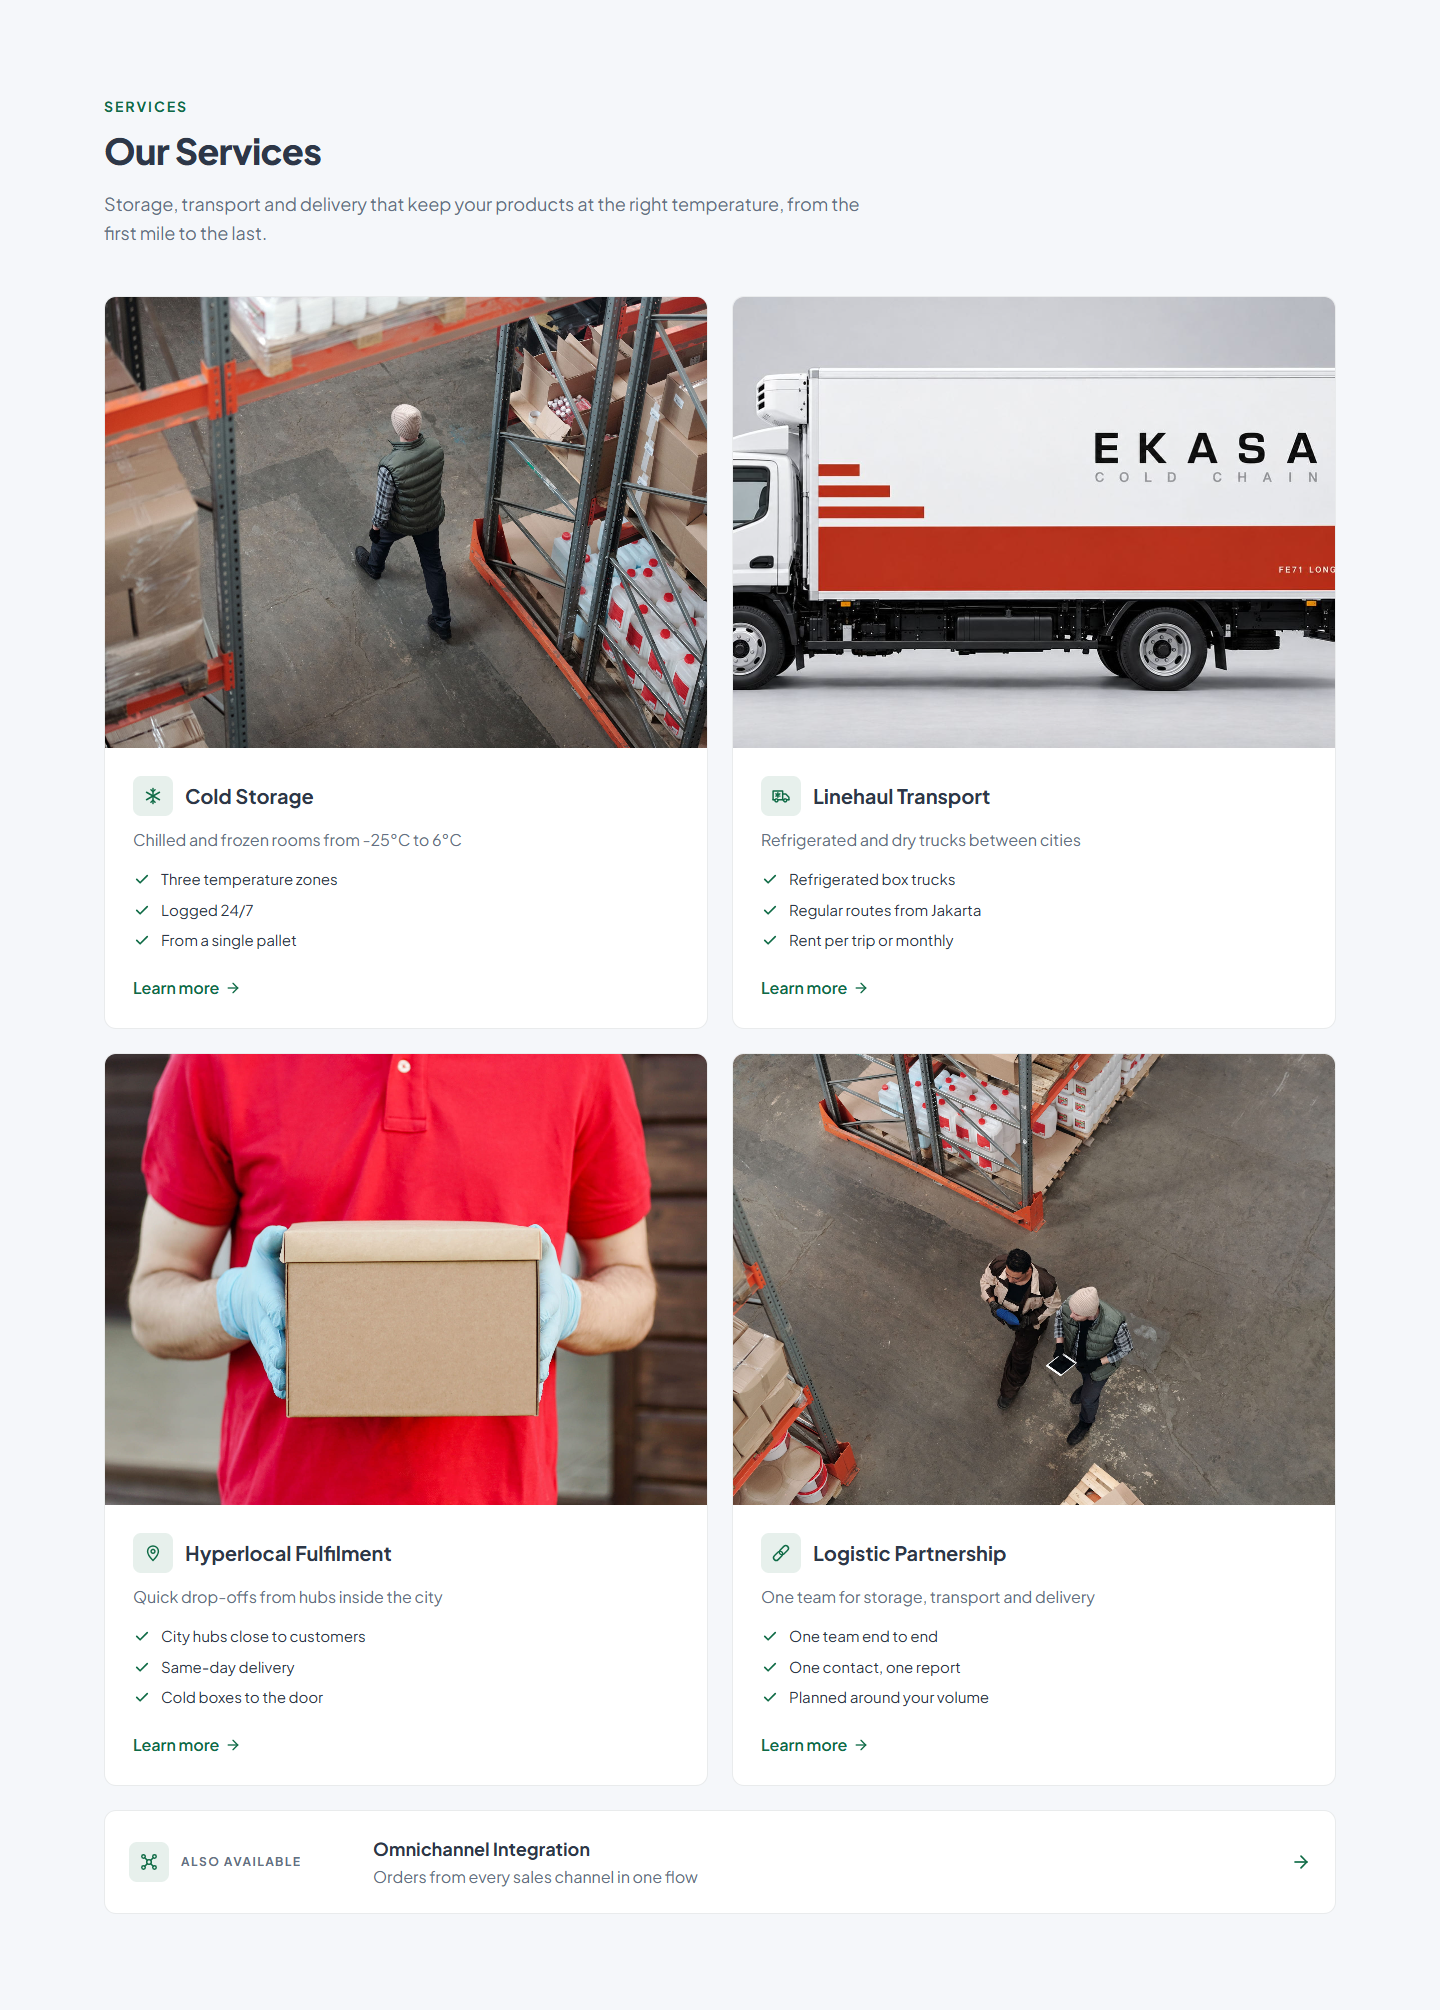
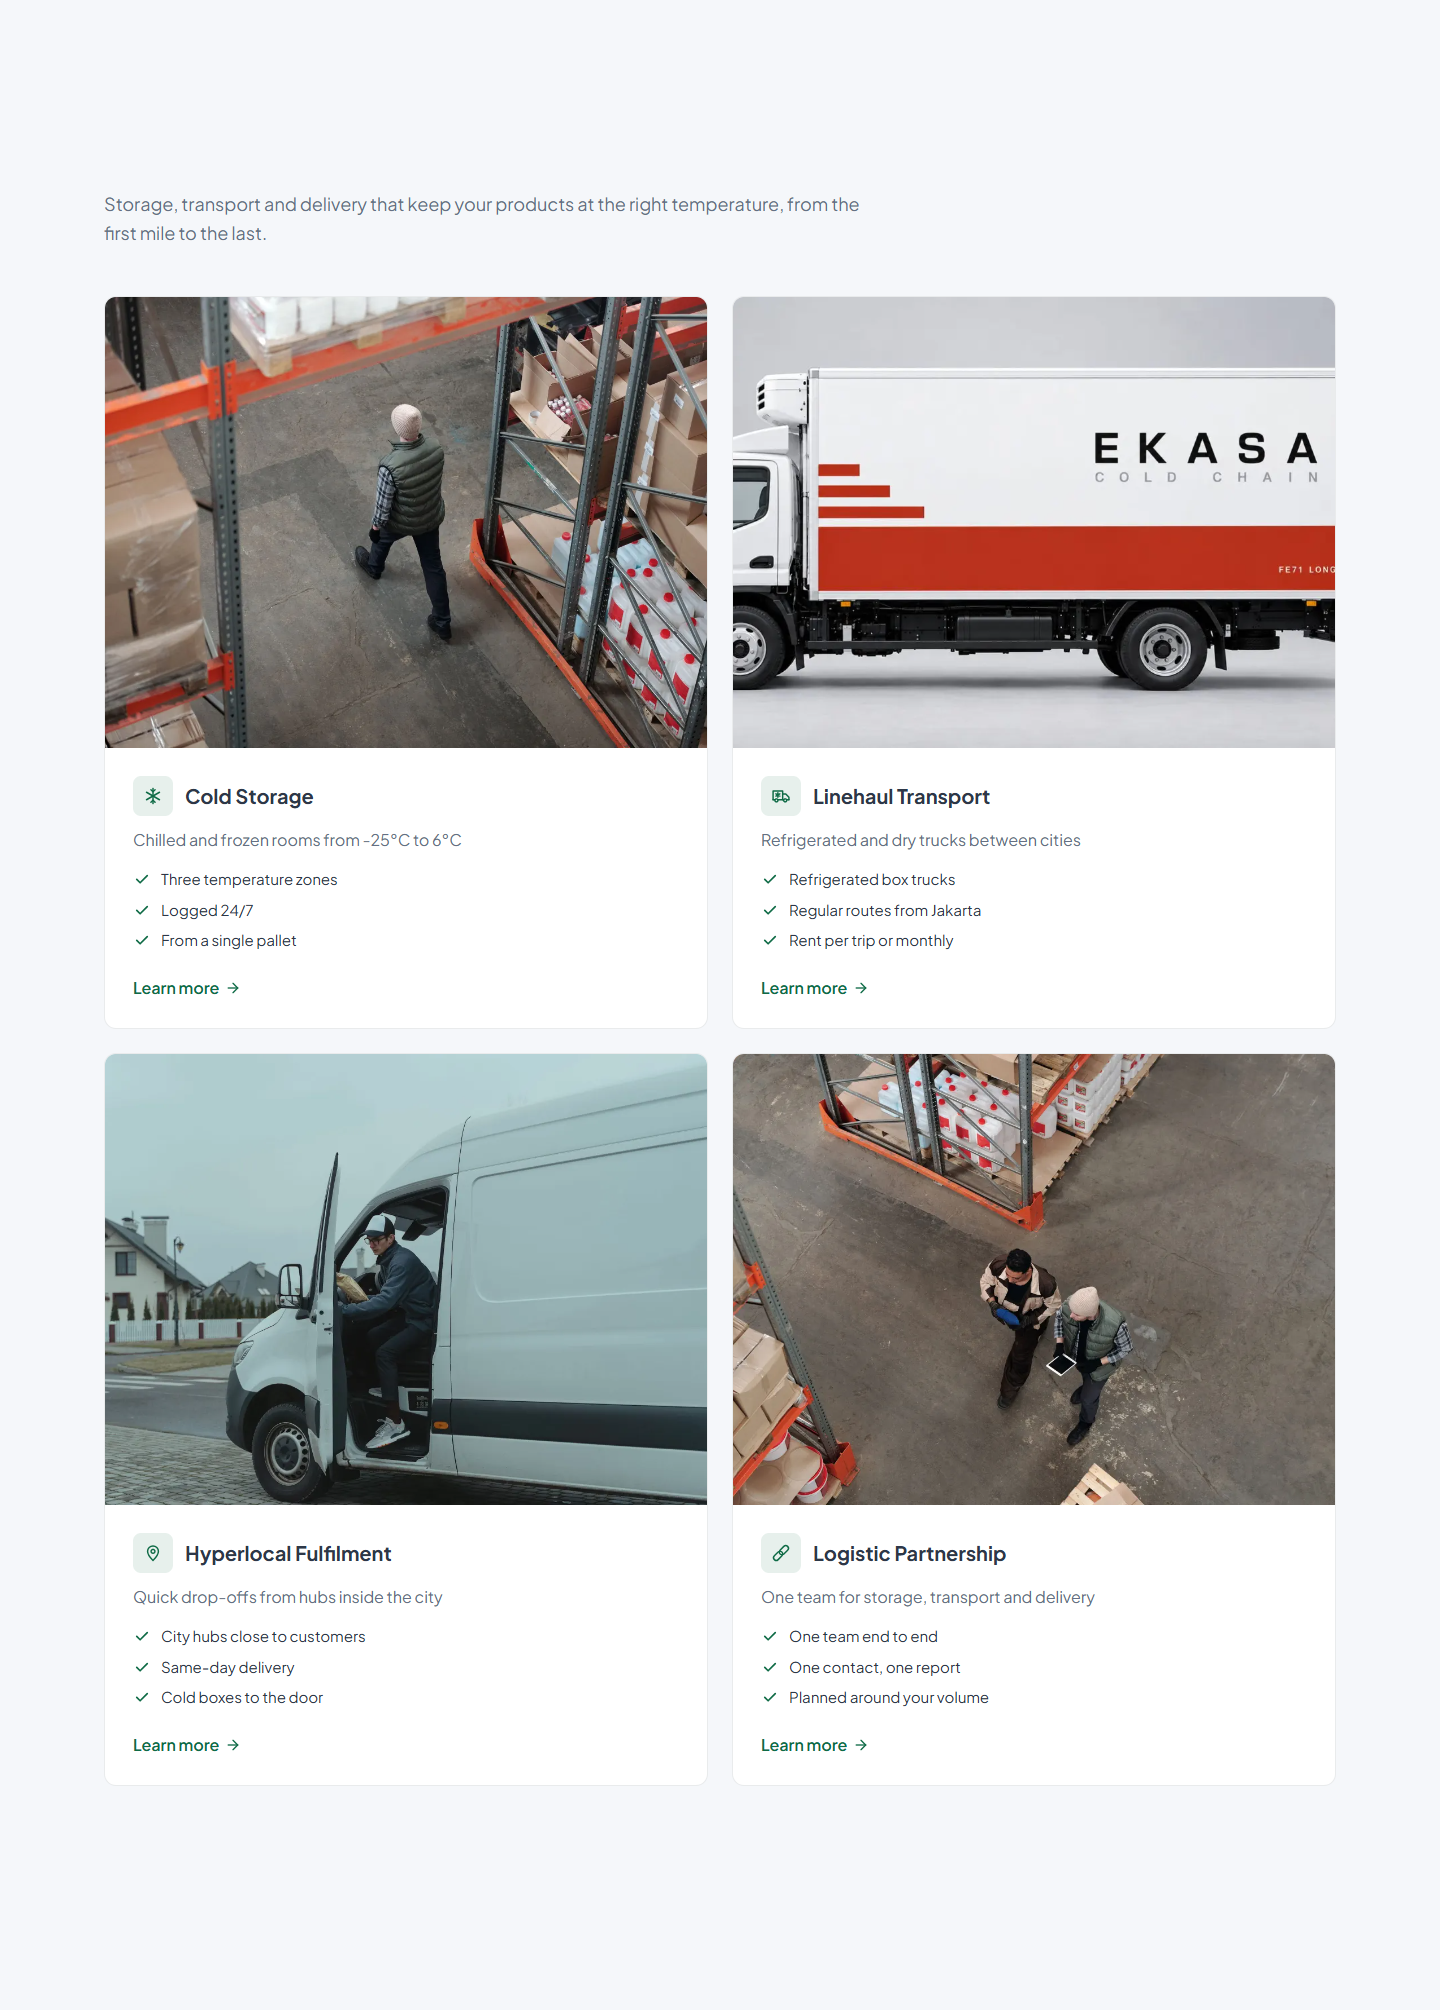
Foto: kartu Hyperlocal diganti foto bernuansa sejuk
- service-hyperlocal-card.jpg: foto Pexels #6169135 (Tima Miroshnichenko),
  kurir naik ke van putih polos di jalan perumahan, menggantikan foto
  kurir berkaos merah yang bernuansa hangat. Tanpa logo/tulisan, cocok
  dengan tiga kartu lain. Diperkecil dengan optimize-seed-images.mjs
  (2400 px, 209 kB).
- image-credits.md: sumber dicatat; kandidat di
  docs/screenshots/foto-pengganti/hyperlocal-kandidat.png.
- Screenshot section Layanan beranda diperbarui.

Changed region(s): [[0.0625, 0.5244, 0.5, 0.7711], [0.0625, 0.0617, 0.2188, 0.0925], [0.2812, 0.8945, 0.4062, 0.9254]]

diff --git a/docs/image-credits.md b/docs/image-credits.md
@@ -2,7 +2,7 @@
 
 ## Foto seeder (`database/seeders/images/`)
 
-Foto beranda di bawah ini disediakan pemilik proyek. Empat foto untuk halaman layanan
+Foto beranda di bawah ini disediakan pemilik proyek. Lima foto untuk layanan
 (Tahap 3) diunduh dari Pexels; lihat bagian berikutnya. Metadata file asli (`_original/`) sudah kosong: tidak ada EXIF (kamera, fotografer,
 hak cipta) maupun XMP, hanya profil warna sRGB. Karena itu sumber dan lisensinya tidak
 bisa ditelusuri dari file dan **harus dikonfirmasi pemilik proyek sebelum situs
@@ -32,6 +32,7 @@ foto). Menggantikan foto dari klien yang tidak cocok.
 | service-cold-storage-hero.jpg | Foto potret (hero butuh lanskap) | [#36126305](https://www.pexels.com/photo/industrial-storage-warehouse-interior-view-36126305/) lorong rak gudang | Adrien Olichon |
 | service-linehaul-hero.jpg | Barisan mobil pikap (bukan truk linehaul) | [#10594292](https://www.pexels.com/photo/asphalt-road-between-fields-10594292/) jalan raya dengan truk di kejauhan | BREAKS OUT |
 | service-partnership-hero.jpg | Foto potret (hero butuh lanskap) | [#4487361](https://www.pexels.com/photo/warehouse-workers-carrying-boxes-4487361/) dua pekerja membawa kardus | Tiger Lily |
+| service-hyperlocal-card.jpg | Kurir berkaos merah (nuansa hangat, tidak senada dengan kartu lain) | [#6169135](https://www.pexels.com/photo/delivery-man-going-out-from-a-van-6169135/) kurir naik ke van putih polos di jalan perumahan | Tima Miroshnichenko |
 
 **Kartu Linehaul memakai foto armada Ekasa**, bukan file tersendiri:
 `service-linehaul-card.jpg` (trailer besar) dihapus. Kartu 4:3 menampilkan
@@ -49,7 +50,7 @@ yang sudut/rasionya lebih pas** begitu tersedia dari klien.
 | location-cakung.jpg, location-pulo-gadung.jpg, location-tanjung-priok.jpg | Gedung gudang, silo, loading dock | **Foto ilustrasi generik, BUKAN foto gudang Ekasa yang sebenarnya.** Perlu diganti foto asli lokasi Ekasa sebelum situs dipublikasikan. |
 | service-linehaul-detail.jpg | Trailer besar di dock | **Foto sementara.** Truknya trailer besar, beda dengan armada Ekasa (truk boks menengah). Sebaiknya diganti foto truk boks menengah. |
 | fleet-fe74-long-side.png, fleet-fe71-long-side.jpg | Truk boks Ekasa FE 74 LONG dan FE71 LONG, tampak samping | Dari klien, isinya tidak diedit. FE71 (JPEG, jadi nama barunya `.jpg`) ikut dikompres ulang q82: 107 kB -> 96 kB, tanpa artefak yang terlihat (`docs/screenshots/foto-pengganti/fe71-kompresi-zoom.png`). FE74 (PNG) tidak diproses skrip. |
-| service-cold-storage-card.jpg, service-hyperlocal-*.jpg, service-linehaul-detail.jpg, service-partnership-card.jpg, service-partnership-detail.jpg | Sesuai nama layanan | Sumber belum diketahui. |
+| service-cold-storage-card.jpg, service-hyperlocal-hero.jpg, service-hyperlocal-detail.jpg, service-linehaul-detail.jpg, service-partnership-card.jpg, service-partnership-detail.jpg | Sesuai nama layanan | Sumber belum diketahui. |
 
 ## Logo dan favicon (placeholder)
 
